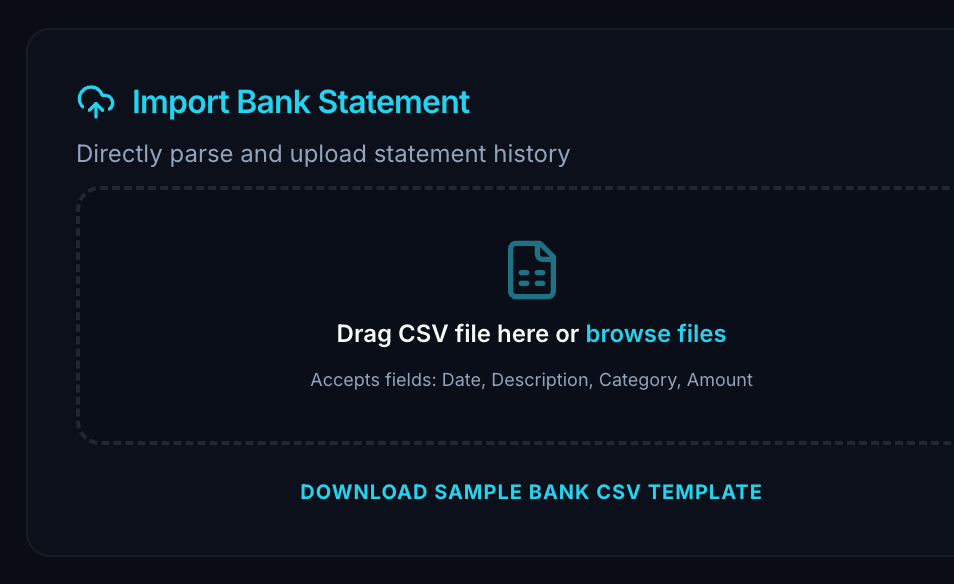
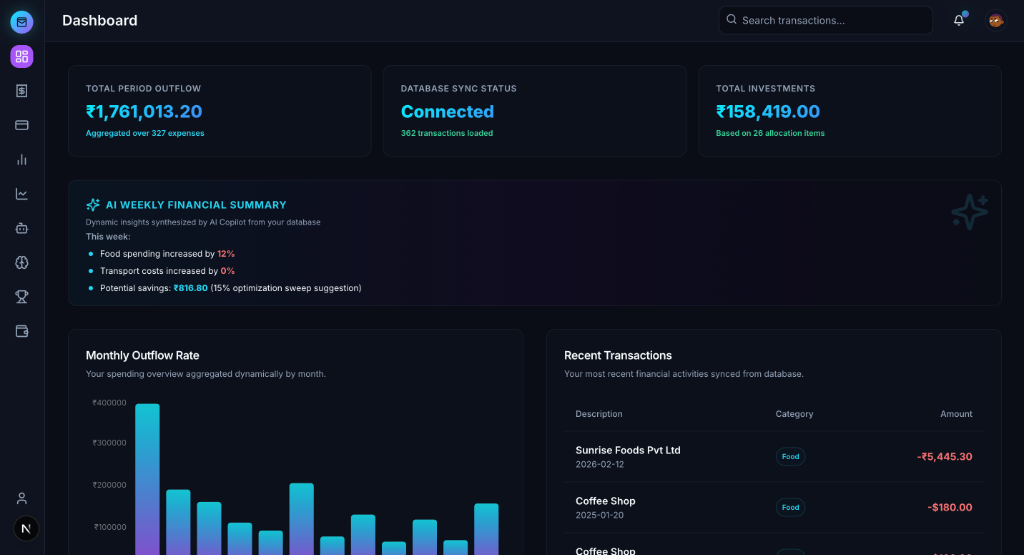
docs: resolve merge conflict and fix dashboard image path in README

diff --git a/README.md b/README.md
@@ -1,10 +1,8 @@
-<<<<<<< HEAD
 # IntelliSpend AI 💰
-=======
 
 **IntelliSpend AI** is a modern, AI-powered personal finance web application built with Next.js. It provides intelligent tools to help you track expenses, gain financial insights, and get smart investment advice.
 
-![IntelliSpend AI Dashboard]
+![IntelliSpend AI Dashboard](./docs/images/dashboard-new.png)
 
 ## ✨ Core Features
 